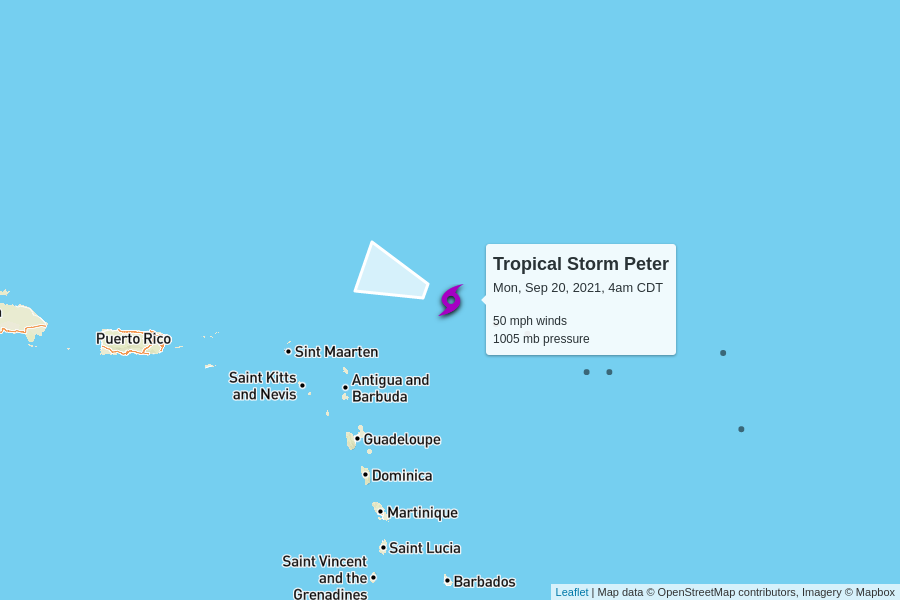
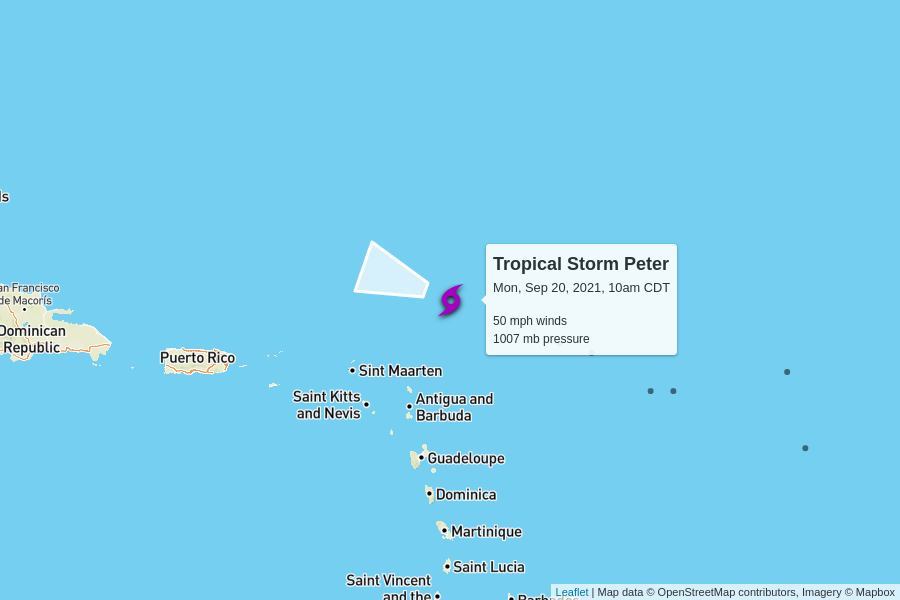
automatic update

diff --git a/docs/index.html b/docs/index.html
@@ -100,7 +100,7 @@
         <td colspan="6" class="storm category-0" >
           <h2>
             Tropical Storm Peter
-            <p class="updated">last updated <span data-time>2021-09-20T09:00:00.000Z</span></p>
+            <p class="updated">last updated <span data-time>2021-09-20T15:00:00.000Z</span></p>
           </h2>
         </td>
       </tr>
@@ -116,9 +116,9 @@
       <tr>
         <td class="spacer"></td>
         <td>50 mph</td>
-        <td>1005 mb</td>
+        <td>1007 mb</td>
         <td>
-          14 mph to the west-northwest
+          15 mph to the west-northwest
           <br/>
           <span style="display: inline-block; font-size: 1.5em; transform: rotate(290deg);">↑</span>
         </td>
@@ -144,7 +144,7 @@
         <td colspan="6" class="storm category-0" >
           <h2>
             Tropical Storm Rose
-            <p class="updated">last updated <span data-time>2021-09-20T09:00:00.000Z</span></p>
+            <p class="updated">last updated <span data-time>2021-09-20T15:00:00.000Z</span></p>
           </h2>
         </td>
       </tr>
@@ -160,11 +160,11 @@
       <tr>
         <td class="spacer"></td>
         <td>40 mph</td>
-        <td>1005 mb</td>
+        <td>1007 mb</td>
         <td>
-          15 mph to the northwest
+          16 mph to the northwest
           <br/>
-          <span style="display: inline-block; font-size: 1.5em; transform: rotate(315deg);">↑</span>
+          <span style="display: inline-block; font-size: 1.5em; transform: rotate(320deg);">↑</span>
         </td>
         <td><a href="https://raw.githubusercontent.com/mgwalker/atlantic-hurricanes/main/data/csv/AL172021.csv">AL172021.csv</a></td>
         <td><a href="https://www.nhc.noaa.gov/archive/2021/ROSE.shtml?">NHC advisories</a></td>
